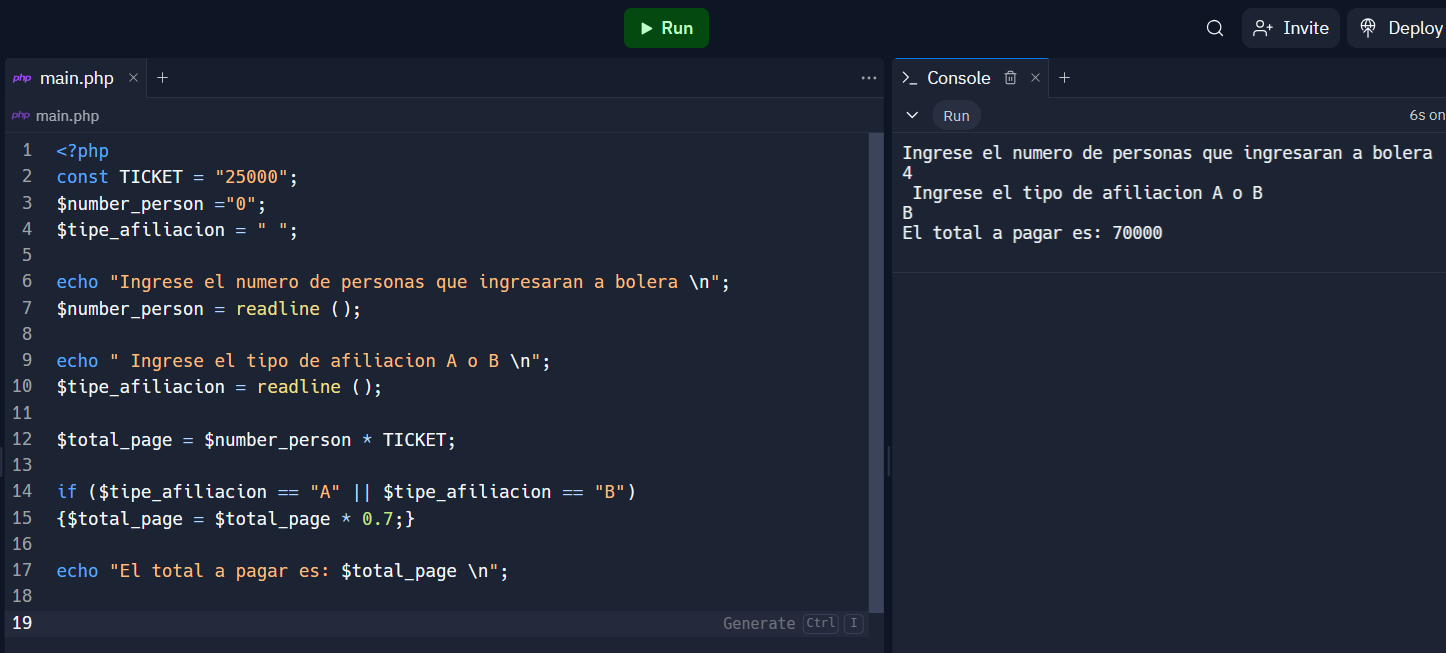
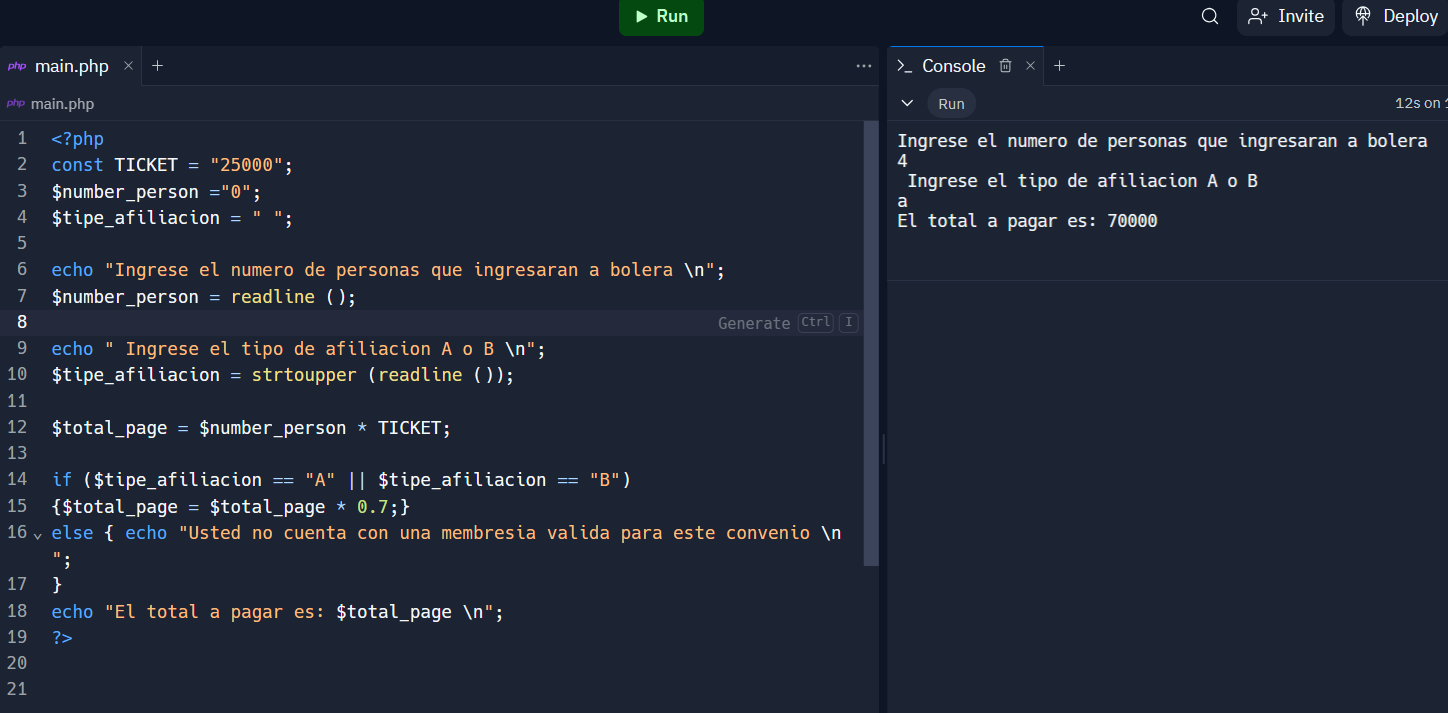
punto-5

diff --git a/punto-5/index.php b/punto-5/index.php
@@ -1,4 +1,4 @@
-<?php
+<<?php
 const TICKET = "25000";
 $number_person ="0";
 $tipe_afiliacion = " ";
@@ -7,11 +7,13 @@ echo "Ingrese el numero de personas que ingresaran a bolera \n";
 $number_person = readline ();
 
 echo " Ingrese el tipo de afiliacion A o B \n";
-$tipe_afiliacion = readline ();
+$tipe_afiliacion = strtoupper (readline ());
 
 $total_page = $number_person * TICKET;
 
 if ($tipe_afiliacion == "A" || $tipe_afiliacion == "B")
 {$total_page = $total_page * 0.7;}
-
+else { echo "Usted no cuenta con una membresia valida para este convenio \n "; 
+}
 echo "El total a pagar es: $total_page \n";
+?>

diff --git a/README.md b/README.md
@@ -19,7 +19,6 @@
 <h2>punto 5: Entrada de bolera usando if / else</h2>
 <img src="./public/images/punto-5.png">
 
-
 <h2>punto 6: Detencion de mayoría de edad</h2>
 
 <h2>punto 7: Seleccion de operación arimetica </h2>
